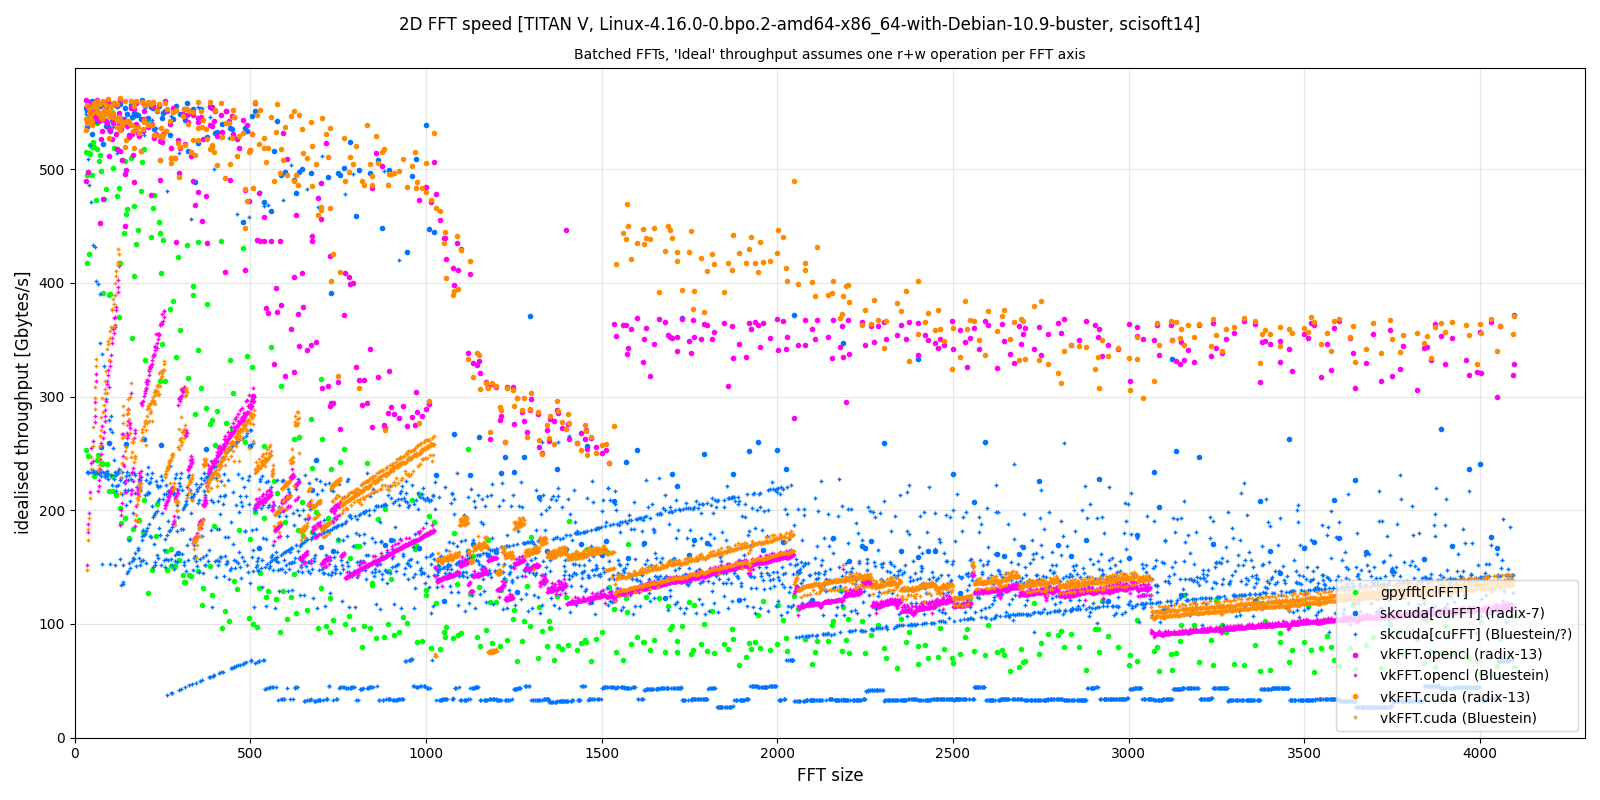
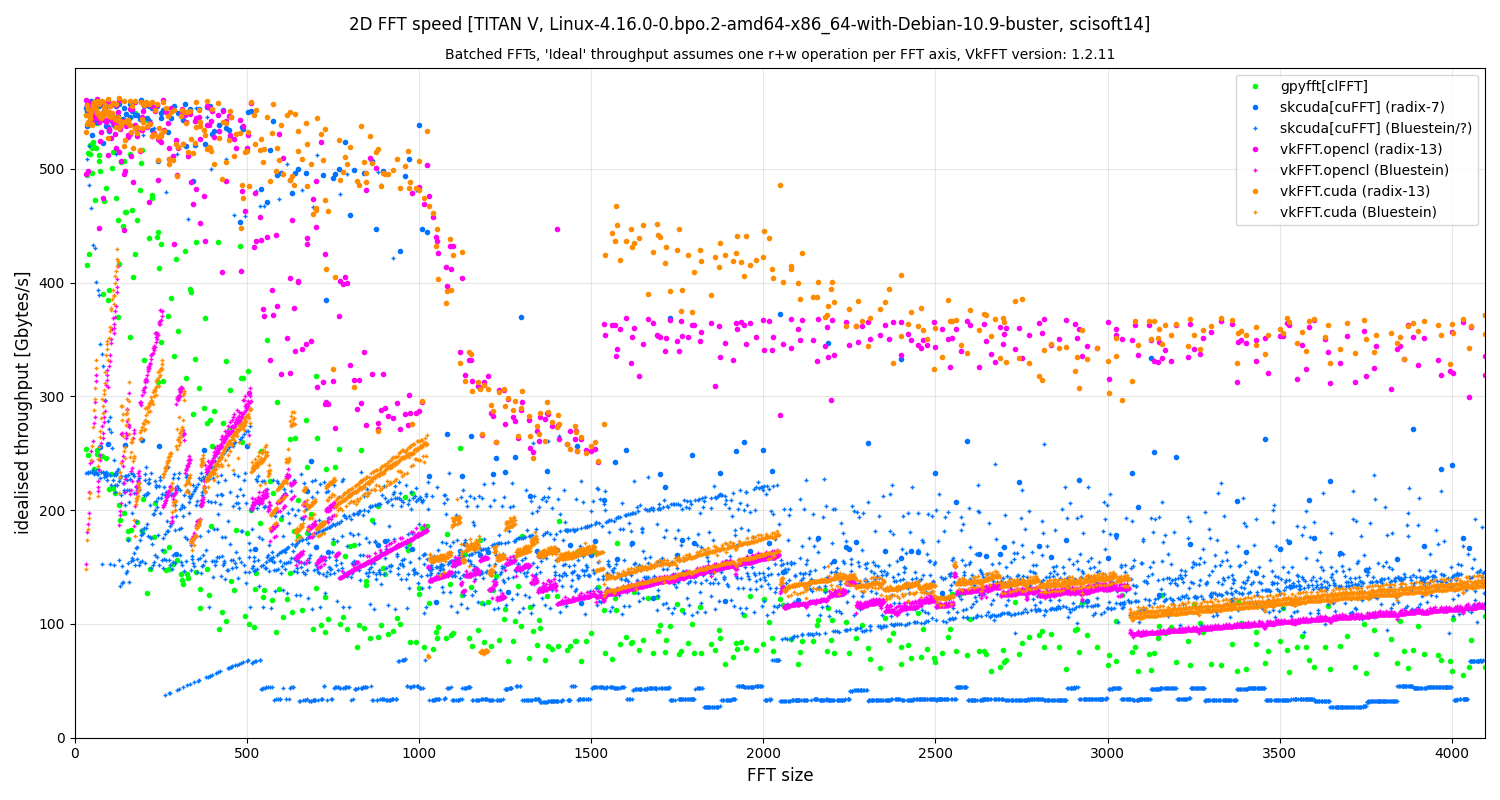
Add DCT to pyvkfft.fft, but don't expose them by default to the import. Clarify the normalisation options, make 1 (inverse transform normalised) the default. Switch license to MIT. Update Titan V benchmark plot.

diff --git a/pyvkfft/fft.py b/pyvkfft/fft.py
@@ -5,6 +5,9 @@
 #       authors:
 #         Vincent Favre-Nicolin, favre@esrf.fr
 
+__all__ = ['fftn', 'ifftn', 'rfftn', 'irfftn', 'vkfft_version', 'clear_vkfftapp_cache',
+           'has_pycuda', 'has_opencl', 'has_cupy']
+
 from enum import Enum
 from functools import lru_cache
 import numpy as np
@@ -138,7 +141,18 @@ def _get_rfft_app(backend, shape, dtype, inplace, ndim, norm, cuda_stream, cl_qu
                            norm=norm, r2c=True)
 
 
-def fftn(src, dest=None, ndim=None, norm=False, axes=None, cuda_stream=None, cl_queue=None,
+@lru_cache(maxsize=100)
+def _get_dct_app(backend, shape, dtype, inplace, ndim, norm, dct_type,
+                 cuda_stream, cl_queue):
+    if backend in [Backend.PYCUDA, Backend.CUPY]:
+        return VkFFTApp_cuda(shape, dtype, ndim=ndim, inplace=inplace,
+                             stream=cuda_stream, norm=norm, dct=dct_type)
+    elif backend == Backend.PYOPENCL:
+        return VkFFTApp_cl(shape, dtype, cl_queue, ndim=ndim, inplace=inplace,
+                           norm=norm, dct=dct_type)
+
+
+def fftn(src, dest=None, ndim=None, norm=1, axes=None, cuda_stream=None, cl_queue=None,
          return_scale=False):
     """
     Perform a FFT on a GPU array, automatically creating the VkFFTApp
@@ -155,12 +169,12 @@ def fftn(src, dest=None, ndim=None, norm=False, axes=None, cuda_stream=None, cl_
         is always performed along the last axes if the array's number
         of dimension is larger than ndim, i.e. on the x-axis for ndim=1,
         on the x and y axes for ndim=2.
-    :param norm: if 0, every transform multiplies the L2 norm of the array
-        by its size (or the size of the transformed array if ndim<d.ndim).
-        if 1 (the default), the inverse transform divides the L2 norm
-        by the array size, so FFT+iFFT will keep the array norm.
+    :param norm: if 0 (un-normalised), every transform multiplies the L2 norm
+        of the array by the transform size.
+        if 1 (the default) or "backward", the inverse transform divides the
+        L2 norm by the array size, so FFT+iFFT will keep the array norm.
         if "ortho", each transform will keep the L2 norm, but that will
-        currently involve an extra read & write operation.
+        involve an extra read & write operation.
     :param axes: a list or tuple of axes along which the transform is made.
         if None, the transform is done along the ndim fastest axes, or all
         axes if ndim is None. Not allowed for R2C transforms
@@ -181,7 +195,7 @@ def fftn(src, dest=None, ndim=None, norm=False, axes=None, cuda_stream=None, cl_
     return dest
 
 
-def ifftn(src, dest=None, ndim=None, norm=False, axes=None, cuda_stream=None, cl_queue=None,
+def ifftn(src, dest=None, ndim=None, norm=1, axes=None, cuda_stream=None, cl_queue=None,
           return_scale=False):
     """
     Perform an inverse FFT on a GPU array, automatically creating the VkFFTApp
@@ -198,12 +212,12 @@ def ifftn(src, dest=None, ndim=None, norm=False, axes=None, cuda_stream=None, cl
         is always performed along the last axes if the array's number
         of dimension is larger than ndim, i.e. on the x-axis for ndim=1,
         on the x and y axes for ndim=2.
-    :param norm: if 0, every transform multiplies the L2 norm of the array
-        by its size (or the size of the transformed array if ndim<d.ndim).
-        if 1 (the default), the inverse transform divides the L2 norm
-        by the array size, so FFT+iFFT will keep the array norm.
+    :param norm: if 0 (un-normalised), every transform multiplies the L2 norm
+        of the array by the transform size.
+        if 1 (the default) or "backward", the inverse transform divides the
+        L2 norm by the array size, so FFT+iFFT will keep the array norm.
         if "ortho", each transform will keep the L2 norm, but that will
-        currently involve an extra read & write operation.
+        involve an extra read & write operation.
     :param axes: a list or tuple of axes along which the transform is made.
         if None, the transform is done along the ndim fastest axes, or all
         axes if ndim is None. Not allowed for R2C transforms
@@ -224,7 +238,7 @@ def ifftn(src, dest=None, ndim=None, norm=False, axes=None, cuda_stream=None, cl
     return dest
 
 
-def rfftn(src, dest=None, ndim=None, norm=False, cuda_stream=None, cl_queue=None,
+def rfftn(src, dest=None, ndim=None, norm=1, cuda_stream=None, cl_queue=None,
           return_scale=False):
     """
     Perform a real->complex transform on a GPU array, automatically creating
@@ -246,12 +260,12 @@ def rfftn(src, dest=None, ndim=None, norm=False, cuda_stream=None, cl_queue=None
         is always performed along the last axes if the array's number
         of dimension is larger than ndim, i.e. on the x-axis for ndim=1,
         on the x and y axes for ndim=2.
-    :param norm: if 0, every transform multiplies the L2 norm of the array
-        by its size (or the size of the transformed array if ndim<d.ndim).
-        if 1 (the default), the inverse transform divides the L2 norm
-        by the array size, so FFT+iFFT will keep the array norm.
+    :param norm: if 0 (un-normalised), every transform multiplies the L2 norm
+        of the array by the transform size.
+        if 1 (the default) or "backward", the inverse transform divides the
+        L2 norm by the array size, so FFT+iFFT will keep the array norm.
         if "ortho", each transform will keep the L2 norm, but that will
-        currently involve an extra read & write operation.
+        involve an extra read & write operation.
     :param cuda_stream: the pycuda.driver.Stream or cupy.cuda.Stream to use
         for the transform. If None, the default one will be used
     :param cl_queue: the pyopencl.CommandQueue to be used. If None,
@@ -271,7 +285,7 @@ def rfftn(src, dest=None, ndim=None, norm=False, cuda_stream=None, cl_queue=None
     return dest.view(dtype=dtype)
 
 
-def irfftn(src, dest=None, ndim=None, norm=False, cuda_stream=None, cl_queue=None,
+def irfftn(src, dest=None, ndim=None, norm=1, cuda_stream=None, cl_queue=None,
            return_scale=False):
     """
     Perform a complex->real transform on a GPU array, automatically creating
@@ -293,12 +307,12 @@ def irfftn(src, dest=None, ndim=None, norm=False, cuda_stream=None, cl_queue=Non
         is always performed along the last axes if the array's number
         of dimension is larger than ndim, i.e. on the x-axis for ndim=1,
         on the x and y axes for ndim=2.
-    :param norm: if 0, every transform multiplies the L2 norm of the array
-        by its size (or the size of the transformed array if ndim<d.ndim).
-        if 1 (the default), the inverse transform divides the L2 norm
-        by the array size, so FFT+iFFT will keep the array norm.
+    :param norm: if 0 (un-normalised), every transform multiplies the L2 norm
+        of the array by the transform size.
+        if 1 (the default) or "backward", the inverse transform divides the
+        L2 norm by the array size, so FFT+iFFT will keep the array norm.
         if "ortho", each transform will keep the L2 norm, but that will
-        currently involve an extra read & write operation.
+        involve an extra read & write operation.
     :param cuda_stream: the pycuda.driver.Stream or cupy.cuda.Stream to use
         for the transform. If None, the default one will be used
     :param cl_queue: the pyopencl.CommandQueue to be used. If None,
@@ -316,6 +330,72 @@ def irfftn(src, dest=None, ndim=None, norm=False, cuda_stream=None, cl_queue=Non
         s = app.get_fft_scale()
         return dest.view(dtype=dtype), s
     return dest.view(dtype=dtype)
+
+
+def dctn(src, dest=None, ndim=None, norm=1, dct_type=2, cuda_stream=None, cl_queue=None):
+    """
+    Perform a real->real Direct Cosine Transform on a GPU array, automatically
+    creating the VkFFTApp and caching it for future re-use.
+
+    :param src: the source pycuda.gpuarray.GPUArray or cupy.ndarray
+    :param dest: the destination GPU array. If None, a new GPU array will
+        be created and returned (using the source array allocator
+        (pycuda, pyopencl) if available).
+        If dest is the same array as src, an inplace transform is done.
+    :param ndim: the number of dimensions (<=3) to use for the FFT. By default,
+        uses the array dimensions. Can be smaller, e.g. ndim=2 for a 3D
+        array to perform a batched 3D FFT on all the layers. The FFT
+        is always performed along the last axes if the array's number
+        of dimension is larger than ndim, i.e. on the x-axis for ndim=1,
+        on the x and y axes for ndim=2.
+    :param norm: normalisation mode, either 0 (un-normalised) or
+        1 (the default, also available as "backward) which will normalise
+        the inverse transform, so DCT+iDCT will keep the array norm.
+    :param dct_type: the type of dct desired: 2 (default), 3 or 4
+    :param cuda_stream: the pycuda.driver.Stream or cupy.cuda.Stream to use
+        for the transform. If None, the default one will be used
+    :param cl_queue: the pyopencl.CommandQueue to be used. If None,
+        the source array default queue will be used
+    :return: the destination array.
+    """
+    backend, inplace, dest, cl_queue = _prepare_transform(src, dest, cl_queue, False)
+    app = _get_dct_app(backend, src.shape, src.dtype, inplace, ndim, norm,
+                       dct_type, cuda_stream, cl_queue)
+    app.fft(src, dest)
+    return dest
+
+
+def idctn(src, dest=None, ndim=None, norm=1, dct_type=2, cuda_stream=None, cl_queue=None):
+    """
+    Perform a real->real inverse Direct Cosine Transform on a GPU array,
+    automatically creating the VkFFTApp and caching it for future re-use.
+
+    :param src: the source pycuda.gpuarray.GPUArray or cupy.ndarray
+    :param dest: the destination GPU array. If None, a new GPU array will
+        be created and returned (using the source array allocator
+        (pycuda, pyopencl) if available).
+        If dest is the same array as src, an inplace transform is done.
+    :param ndim: the number of dimensions (<=3) to use for the FFT. By default,
+        uses the array dimensions. Can be smaller, e.g. ndim=2 for a 3D
+        array to perform a batched 3D FFT on all the layers. The FFT
+        is always performed along the last axes if the array's number
+        of dimension is larger than ndim, i.e. on the x-axis for ndim=1,
+        on the x and y axes for ndim=2.
+    :param norm: normalisation mode, either 0 (un-normalised) or
+        1 (the default, also available as "backward) which will normalise
+        the inverse transform, so DCT+iDCT will keep the array norm.
+    :param dct_type: the type of dct desired: 2 (default), 3 or 4
+    :param cuda_stream: the pycuda.driver.Stream or cupy.cuda.Stream to use
+        for the transform. If None, the default one will be used
+    :param cl_queue: the pyopencl.CommandQueue to be used. If None,
+        the source array default queue will be used
+    :return: the destination array.
+    """
+    backend, inplace, dest, cl_queue = _prepare_transform(src, dest, cl_queue, False)
+    app = _get_dct_app(backend, src.shape, src.dtype, inplace, ndim, norm,
+                       dct_type, cuda_stream, cl_queue)
+    app.ifft(src, dest)
+    return dest
 
 
 def clear_vkfftapp_cache():

diff --git a/pyvkfft/opencl.py b/pyvkfft/opencl.py
@@ -69,11 +69,12 @@ class VkFFTApp(VkFFTAppBase):
             on the x and y axes for ndim=2, etc.. Unless axes are given.
         :param inplace: if True (the default), performs an inplace transform and
             the destination array should not be given in fft() and ifft().
-        :param norm: if 0, every transform multiplies the L2 norm of the array
-            by its size (or the size of the transformed array if ndim<d.ndim).
-            if 1 (the default), the inverse transform divides the L2 norm
-            by the array size, so FFT+iFFT will keep the array norm.
-            if "ortho", each transform will keep the L2 norm, but that will currently
+        :param norm: if 0 (unnormalised), every transform multiplies the L2
+            norm of the array by its size (or the size of the transformed
+            array if ndim<d.ndim).
+            if 1 (the default) or "backward", the inverse transform divides
+            the L2 norm by the array size, so FFT+iFFT will keep the array norm.
+            if "ortho", each transform will keep the L2 norm, but that will
             involve an extra read & write operation.
         :param r2c: if True, will perform a real->complex transform, where the
             complex destination is a half-hermitian array.
@@ -96,6 +97,12 @@ class VkFFTApp(VkFFTAppBase):
             driver has not been properly initialised, or if the transform dimensions
             are not allowed by VkFFT.
         """
+        if dct == 4:
+            if ndim is not None:
+                if ndim > 1:
+                    raise RuntimeError("DCT type IV is not supported for OpenCL for ndim>1")
+            elif len(shape) > 1:
+                raise RuntimeError("DCT type IV is not supported for OpenCL for ndim>1")
         super().__init__(shape, dtype, ndim=ndim, inplace=inplace, norm=norm, r2c=r2c, dct=dct, axes=axes, **kwargs)
 
         self.queue = queue

diff --git a/pyvkfft/cuda.py b/pyvkfft/cuda.py
@@ -19,7 +19,7 @@ try:
 except ImportError:
     has_cupy = False
     if has_pycuda is False:
-        raise ImportError("You nee either PyCUDA or CuPY to use pyvkfft.cuda.")
+        raise ImportError("You need either PyCUDA or CuPY to use pyvkfft.cuda.")
 
 from .base import load_library, primes, VkFFTApp as VkFFTAppBase
 
@@ -80,11 +80,12 @@ class VkFFTApp(VkFFTAppBase):
             the destination array should not be given in fft() and ifft().
         :param stream: the pycuda.driver.Stream or cupy.cuda.Stream to use
             for the transform. If None, the default one will be used
-        :param norm: if 0, every transform multiplies the L2 norm of the array
-            by its size (or the size of the transformed array if ndim<d.ndim).
-            if 1 (the default), the inverse transform divides the L2 norm
-            by the array size, so FFT+iFFT will keep the array norm.
-            if "ortho", each transform will keep the L2 norm, but that will currently
+        :param norm: if 0 (unnormalised), every transform multiplies the L2
+            norm of the array by its size (or the size of the transformed
+            array if ndim<d.ndim).
+            if 1 (the default) or "backward", the inverse transform divides
+            the L2 norm by the array size, so FFT+iFFT will keep the array norm.
+            if "ortho", each transform will keep the L2 norm, but that will
             involve an extra read & write operation.
         :param r2c: if True, will perform a real->complex transform, where the
             complex destination is a half-hermitian array.

diff --git a/pyvkfft/base.py b/pyvkfft/base.py
@@ -148,11 +148,12 @@ class VkFFTApp:
             on the x and y axes for ndim=2, etc.. Unless axes are given.
         :param inplace: if True (the default), performs an inplace transform and
             the destination array should not be given in fft() and ifft().
-        :param norm: if 0, every transform multiplies the L2 norm of the array
-            by its size (or the size of the transformed array if ndim<d.ndim).
-            if 1 (the default), the inverse transform divides the L2 norm
-            by the array size, so FFT+iFFT will keep the array norm.
-            if "ortho", each transform will keep the L2 norm, but that will currently
+        :param norm: if 0 (unnormalised), every transform multiplies the L2
+            norm of the array by its size (or the size of the transformed
+            array if ndim<d.ndim).
+            if 1 (the default) or "backward", the inverse transform divides
+            the L2 norm by the array size, so FFT+iFFT will keep the array norm.
+            if "ortho", each transform will keep the L2 norm, but that will
             involve an extra read & write operation.
         :param r2c: if True, will perform a real->complex transform, where the
             complex destination is a half-hermitian array.
@@ -219,6 +220,8 @@ class VkFFTApp:
         else:
             self.keepShaderCode = -1
 
+        if norm == "backward":
+            norm = 1
         self.norm = norm
 
         # Precision: number of bytes per float

diff --git a/setup.py b/setup.py
@@ -1,5 +1,5 @@
 # Most of the setup used here is derived from https://github.com/rmcgibbo/npcuda-example
-# License: BSD-2 clause
+# License: MIT
 
 import os
 import sys
@@ -67,7 +67,7 @@ def locate_opencl():
     """
     if 'darwin' in sys.platform:
         libraries = None
-        extra_link_args = ['-Wl,-framework,OpenCL', '--shared']  # , '--shared'
+        extra_link_args = ['-Wl,-framework,OpenCL']  # , '--shared'
     else:
         libraries = ['OpenCL']
         extra_link_args = ['--shared']

diff --git a/pyvkfft/version.py b/pyvkfft/version.py
@@ -1,10 +1,10 @@
 # -*- coding: utf-8 -*-
 
 __authors__ = ["Vincent Favre-Nicolin (pyvkfft), Dmitrii Tolmachev (VkFFT)"]
-__license__ = "Mozilla Public License Version 2.0"
-__date__ = "2021/05/02"
+__license__ = "MIT"
+__date__ = "2021/08/23"
 # Valid numbering includes 3.1, 3.1.0, 3.1.2, 3.1dev0, 3.1a0, 3.1b0
-__version__ = "2021.1b6"
+__version__ = "2021.2"
 
 
 def vkfft_version():
